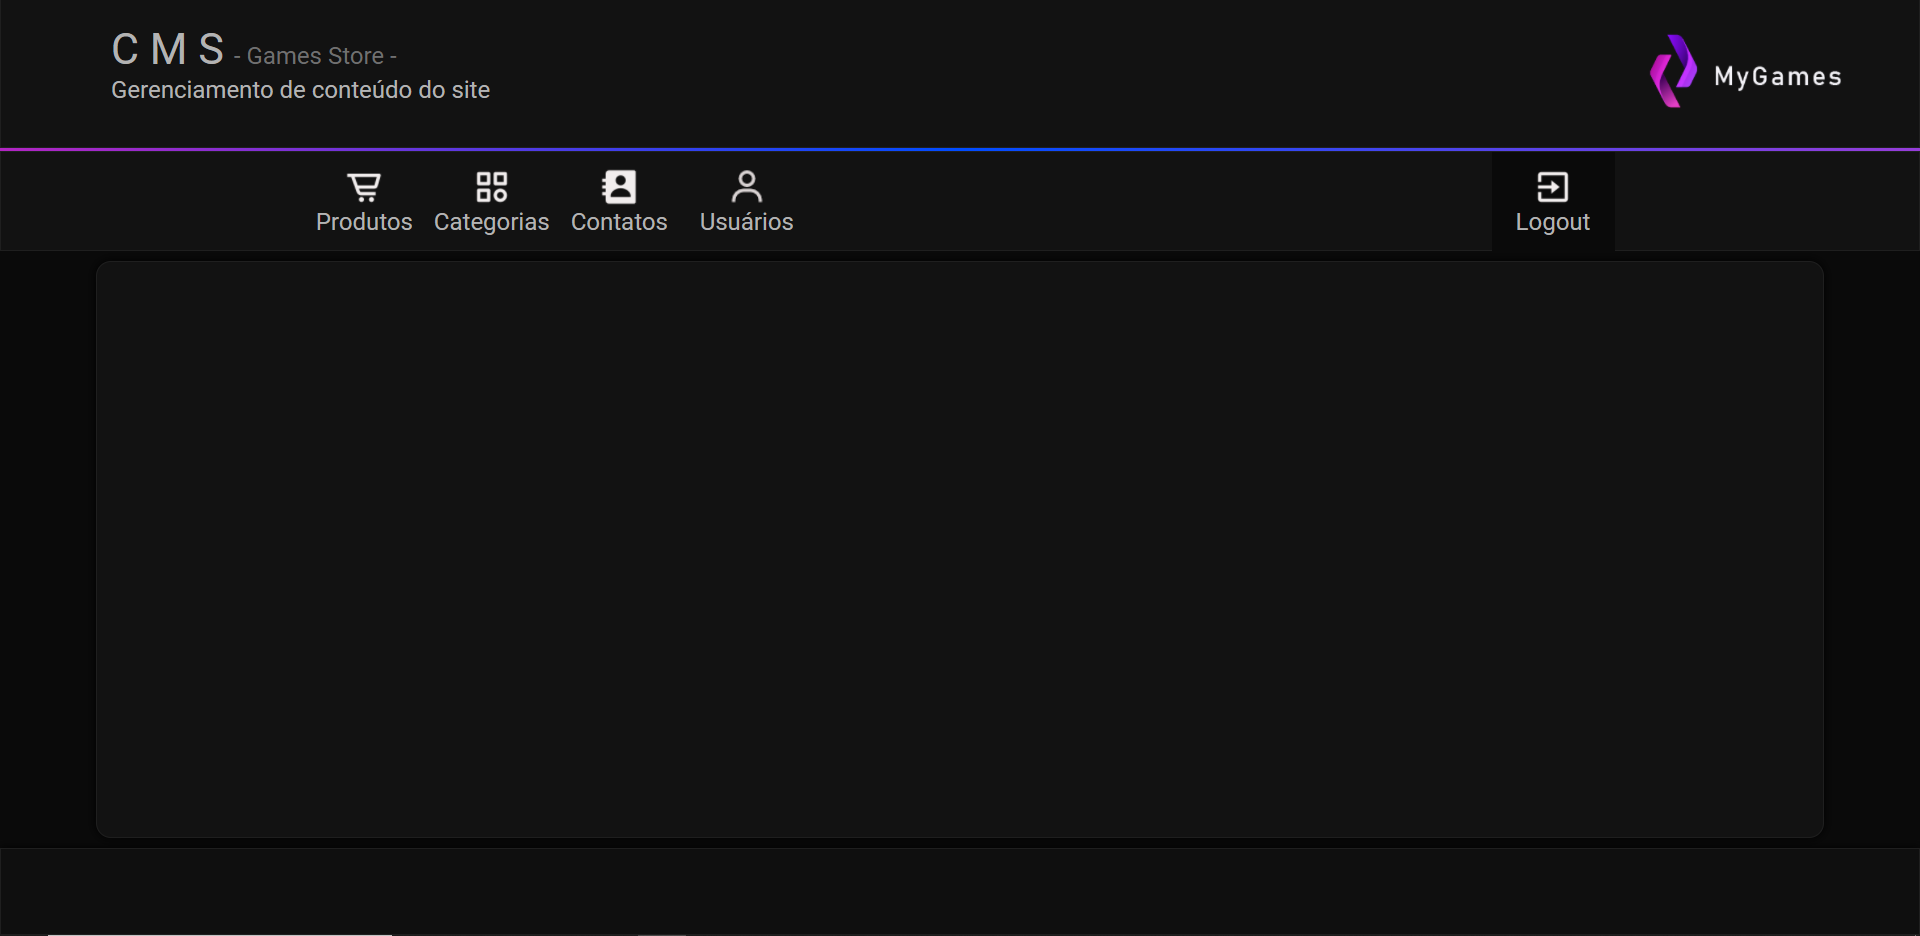
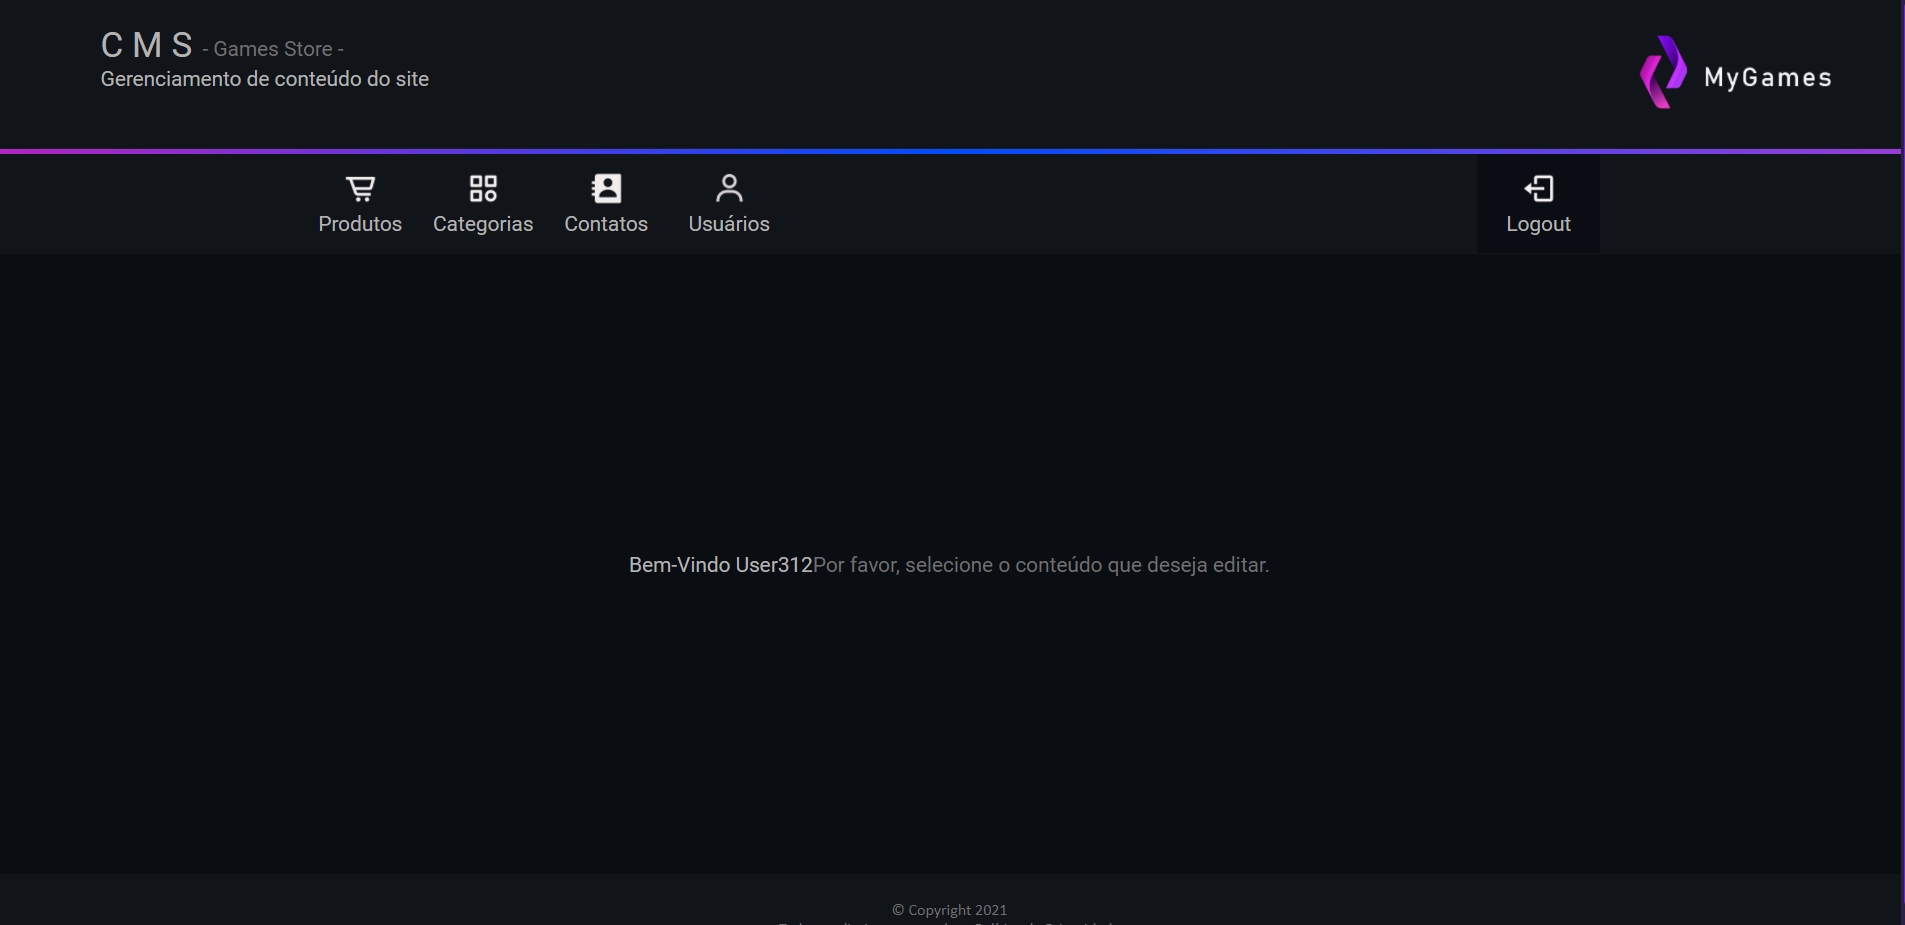
sessão conluída

diff --git a/style/dashboard.css b/style/dashboard.css
@@ -40,14 +40,19 @@ p{
     background-size: cover;
      -webkit-backdrop-filter: saturate(180%) blur(20px);
     backdrop-filter: saturate(180%) blur(6px);
-    display: flex;
+    
+}
+.container-login{
+   width: 100vw;
+   height: 100vh;
+   display: flex;
     justify-content: center;
     align-items: center;
 }
-.container-login{
+.form-login{
     width: 500px;
     height: 400px;
-    background-color: #121212;
+    background-color: #111418;
     border-radius: 10px;
     box-shadow: 0px 0px 10px #000;
 	border: 1px solid var(--cor-borda);

diff --git a/admin/index.php b/admin/index.php
@@ -9,16 +9,18 @@
     </head>
     <body id="login">
         <section class="container-login">
-            <form action="autenticar.php" name="formLogin" method="POST">
-                <h1>Autenticação C M S</h1>
-                <div class="hr-title"></div>
-                <div class="itens">
-                    <input class="campo-txt" placeholder="Login" type="text" name="txtLogin">
-                    <input class="campo-txt" placeholder="Senha" type="password" name="txtSenha">
-                    <input class="btn-form"type="submit" value="Logar">
-                    <p>- Games Store - </p>
-                </div>
-            </form>
+            <div class="form-login">
+                <form action="autenticar.php" name="formLogin" method="POST">
+                    <h1>Autenticação C M S</h1>
+                    <div class="hr-title"></div>
+                    <div class="itens">
+                        <input class="campo-txt" placeholder="Login" type="text" name="txtLogin">
+                        <input class="campo-txt" placeholder="Senha" type="password" name="txtSenha">
+                        <input class="btn-form"type="submit" value="Logar">
+                        <p>- Games Store - </p>
+                    </div>
+                </form>
+            </div>
         </section>
     </body>
 </html>

diff --git a/admin/produto.php b/admin/produto.php
@@ -2,6 +2,11 @@
     require_once("controller/produto/listarProduto.php");
     require_once("functions/compararCategoria.php");
     require_once("controller/categoria/exibirCategorias.php");
+    require_once("session.php");
+
+    //validando sessão
+    sessao();
+
     
     $idProduto = (int) null;
     $nome = (string) null;
@@ -12,8 +17,7 @@
     $preview = (string) null;
     $idProduto = (string) null;
     $modo = (string) "Cadastrar";
-    // $nome = (string) null;
-    session_start();
+
     if(isset($_SESSION['produto'])){
         $idProduto = $_SESSION['produto']['id_produto'];
         $nome = $_SESSION['produto']['nome'];
@@ -86,7 +90,7 @@
                         <label for="<?=$rsCategorias['nome']?>" class="categoria-item">        
                             <p><?=$rsCategorias['nome']?></p>
                             <div>
-                    
+                           
                             </div>
                         </label> 
                          <?php

diff --git a/admin/dashboard.php b/admin/dashboard.php
@@ -1,3 +1,8 @@
+<?php
+require_once("session.php");
+
+sessao();
+?>
 <!DOCTYPE html>
 <html lang="pt-BR">
     <head>
@@ -5,6 +10,7 @@
         <meta name="viewport" content="width=device-width, initial-scale=1.0">
         <link rel="stylesheet" type="text/css" href="../style/style.css">
         <link rel="stylesheet" type="text/css" href="../style/dashboard.css">
+        
         <title>CMS</title>
     </head>
     <body>
@@ -60,7 +66,7 @@
             </div>
         </nav>
         <main>
-            <p>Bem-Vindo User312</p>
+            <p>Bem-Vindo <?=$_SESSION['nomeUsuario']?> </p>
             <p class="txt-background">Por favor, selecione o conteúdo que deseja editar.</p>
         </main>
         <footer>

diff --git a/admin/usuarios.php b/admin/usuarios.php
@@ -1,11 +1,16 @@
 <?php
     require_once("config/config.php");
     require_once(SRC."controller/usuarios/listarUsuario.php");
+    require_once("session.php");
+
+    
+    sessao();
+
     $nome =(string)null;
     $login =(string)null;
     $idUsuario = (int)null;
     $modo =(string) "Cadastrar";
-    session_start();
+
     if(isset($_SESSION['usuario'])){
         $nome = $_SESSION['usuario']['nome'];
         $login = $_SESSION['usuario']['login'];

diff --git a/admin/autenticar.php b/admin/autenticar.php
@@ -27,7 +27,10 @@
         //verificando se o mysqli retornou algo
         if($rsUsuario = mysqli_fetch_assoc($select)){
             session_start();
+            //recebendo nome do usuario
             $_SESSION['nomeUsuario'] = $rsUsuario['nome'];
+            //status da sessão
+            $_SESSION['statusLogin'] = true;
             header('location: dashboard.php');
         }
         else{

diff --git a/admin/categoria.php b/admin/categoria.php
@@ -1,8 +1,10 @@
 <?php
-    session_start();
     require_once("config/config.php");
     require_once("bd/conexaoMysql.php");
     require_once(SRC . "controller/categoria/exibirCategorias.php");
+    require_once("session.php");
+
+    sessao();
 
     $categoria = (string) null;
     $modo = (String) "Salvar";

diff --git a/admin/shapes/header.php b/admin/shapes/header.php
@@ -1,6 +1,6 @@
         <header>
             <div class="titulo">
-                <a href="deashboard.php">
+                <a href="dashboard.php">
                     <div class="nome-projeto">
                         <h1>C M S</h1>
                         <p class="txt-background">

diff --git a/admin/session.php b/admin/session.php
@@ -1,0 +1,9 @@
+<?php
+
+//ativando e validando sessão
+function sessao(){
+    if(session_status() != PHP_SESSION_ACTIVE){session_start();}
+
+    if(!isset($_SESSION['statusLogin']) || !$_SESSION['statusLogin']){header('location: index.php');}
+}
+?>

diff --git a/admin/contato.php b/admin/contato.php
@@ -1,6 +1,9 @@
 <?php
    require_once("controller/contato/listarContato.php");
     require_once("config/config.php");
+    require_once("session.php");
+
+    sessao();
 ?>
 <!DOCTYPE html>
 <html lang="pt-BR">
